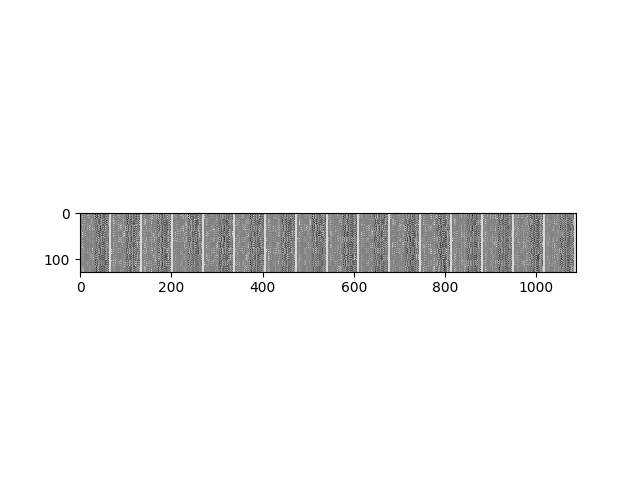
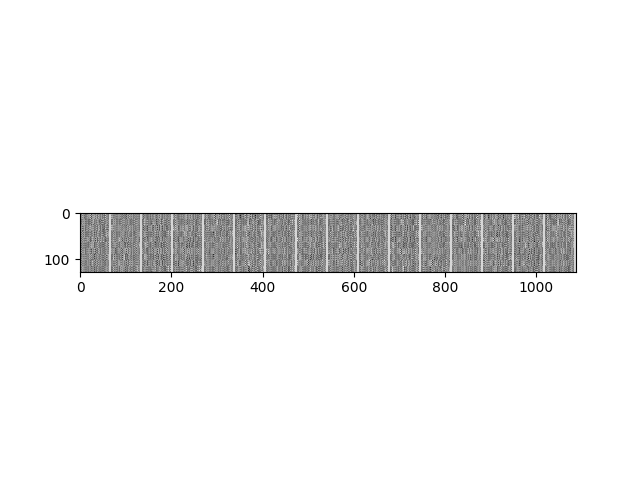
Improving the autoencoders

Changed region(s): [[0.125, 0.4375, 0.9062, 0.5625]]

diff --git a/3dvae/3dvae.py b/3dvae/3dvae.py
@@ -44,7 +44,7 @@ def get_encodings(frames,model,meta=False):
     if meta:
         return np.array(enc)
     else:
-        return np.array([np.array(enc[i:i+32]).reshape([128,32,1]) for i in range(len(frames)-31)])
+        return np.array([np.array(enc[i:i+32]).reshape([32,128,1]) for i in range(len(frames)-31)])
 
 def get_state_pairs(frames,ae1,ae2):
     enc1 = get_encodings(frames,ae1)
@@ -58,7 +58,7 @@ def get_state_pairs(frames,ae1,ae2):
 def train_simulator():
     frames = log_run()
     ae = VanillaAutoencoder([None,64,64,1], 1e-3, batch_size, latent_dim)
-    meta_ae = MetaVanillaAutoencoder([None,128,32,1], 1e-3, batch_size, latent_dim, '/home/ronnypetson/models/meta_encoder')
+    meta_ae = MetaVanillaAutoencoder([None,32,128,1], 1e-3, batch_size, latent_dim, '/home/ronnypetson/models/meta_encoder')
     state_pairs = get_state_pairs(frames,ae,meta_ae)
     num_sample = len(state_pairs)
 
@@ -104,7 +104,7 @@ def decode_seq():
     ae = VanillaAutoencoder([None,64,64,1], 1e-3, batch_size, latent_dim)
     encodings = get_encodings(frames,ae) # [1,128,32,1]
 
-    meta_ae = MetaVanillaAutoencoder([None,128,32,1], 1e-3, batch_size, latent_dim, '/home/ronnypetson/models/meta_encoder')
+    meta_ae = MetaVanillaAutoencoder([None,32,128,1], 1e-3, batch_size, latent_dim, '/home/ronnypetson/models/meta_encoder')
     meta_enc = meta_ae.transformer(encodings) # shape [1,128]
     rec_enc = meta_ae.generator(meta_enc) # shape([1,128,32,1])
     rec_frames = ae.generator(rec_enc.reshape([32,128])).reshape([32,64,64])
@@ -128,6 +128,7 @@ def train_meta_ae():
     ae = VanillaAutoencoder([None,64,64,1], 1e-3, batch_size, latent_dim)
     encodings = get_encodings(frames,ae)
     ae.close_session()
+    meta_ae = None
 
     def save_reproductions():
         batch = get_batch(encodings)
@@ -144,10 +145,10 @@ def train_meta_ae():
         plt.close(fig)
 
     num_sample=len(encodings)
-    meta_ae = MetaVanillaAutoencoder([None,128,32,1], 1e-3, batch_size, latent_dim, '/home/ronnypetson/models/meta_encoder')
+    meta_ae = MetaVanillaAutoencoder([None,32,128,1], 1e-3, batch_size, latent_dim, '/home/ronnypetson/models/meta_encoder')
     for epoch in range(100):
         for iter in range(num_sample // batch_size):
-            # Obtina a batch
+            # Obtain a batch
             batch = get_batch(encodings)
             # Execute the forward and the backward pass and report computed losses
             loss = meta_ae.run_single_step(batch)

diff --git a/3dvae/vae.py b/3dvae/vae.py
@@ -164,7 +164,7 @@ class VanillaAutoencoder(object):
         self.sess.close()
 
 class MetaVanillaAutoencoder(object):
-    def __init__(self, input_dim=[None,128,32,1], learning_rate=1e-3, batch_size=64, n_z=128, model_fname='/home/ronnypetson/models/meta_encoder'):
+    def __init__(self, input_dim=[None,32,128,1], learning_rate=1e-3, batch_size=64, n_z=128, model_fname='/home/ronnypetson/models/meta_encoder'):
         self.input_dim = input_dim
         self.learning_rate = learning_rate
         self.batch_size = batch_size
@@ -192,15 +192,15 @@ class MetaVanillaAutoencoder(object):
         conv2 = tf.layers.conv2d(conv1, 64, (5,5), (2,2), padding='same', activation=tf.nn.relu)
         conv3 = tf.layers.conv2d(conv2, 64, (3,3), (1,1), padding='same', activation=tf.nn.relu)
         flat1 = tf.layers.flatten(conv3)
-        self.z = tf.layers.dense(flat1,self.n_z)
+        self.z = tf.layers.dense(flat1,self.n_z) # ,activation=tf.nn.relu
 
         # Decode
         # z -> x_hat
         dec1 = tf.layers.dense(self.z,32*8*64,activation=tf.nn.relu) # tf.shape(flat1)
-        dec1 = tf.reshape(dec1,[-1,32,8,64]) # tf.shape(conv3)
+        dec1 = tf.reshape(dec1,[-1,8,32,64]) # tf.shape(conv3)
         dec2 = tf.layers.conv2d_transpose(dec1, 64, (3,3), (1,1), padding='same', activation=tf.nn.relu)
         dec3 = tf.layers.conv2d_transpose(dec2, 64, (5,5), (2,2), padding='same', activation=tf.nn.relu)
-        self.x_hat = tf.layers.conv2d_transpose(dec3, 1, (5,5), (2,2), padding='same', activation=tf.nn.relu)
+        self.x_hat = tf.layers.conv2d_transpose(dec3, 1, (5,5), (2,2), padding='same', activation=None)
         # Loss
         # Reconstruction loss
         # Minimize the cross-entropy loss
@@ -213,7 +213,7 @@ class MetaVanillaAutoencoder(object):
         return
 
     # Execute the forward and the backward pass
-    def run_single_step(self, x, save=False):
+    def run_single_step(self, x):
         _, loss = self.sess.run(
             [self.train_op, self.total_loss],
             feed_dict={self.x: x}

diff --git a/3dvae/transition.py b/3dvae/transition.py
@@ -29,7 +29,7 @@ class Transition(object):
         self.x_ = tf.placeholder(name='x_', dtype=tf.float32, shape=self.output_dim)
         # Layers
         d1 = tf.layers.dense(self.x, 512, activation=tf.nn.relu)
-        self.x_hat = tf.layers.dense(d1, self.output_dim[1], activation=tf.nn.relu)
+        self.x_hat = tf.layers.dense(d1, self.output_dim[1], activation=None) # tf.nn.relu
         # Loss and train operations
         self.total_loss = tf.losses.mean_squared_error(self.x_,self.x_hat)
         self.train_op = tf.train.AdamOptimizer(learning_rate=self.learning_rate).minimize(self.total_loss)
